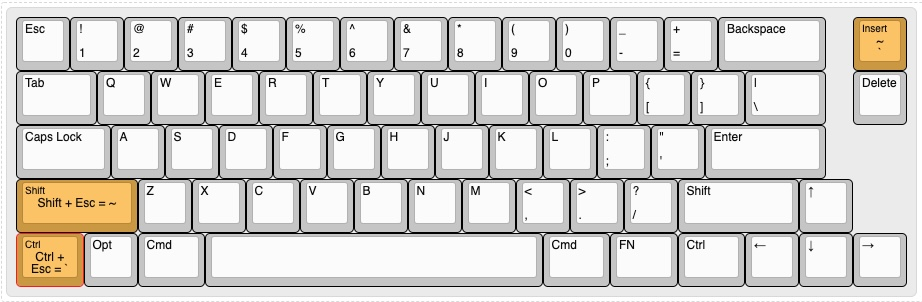
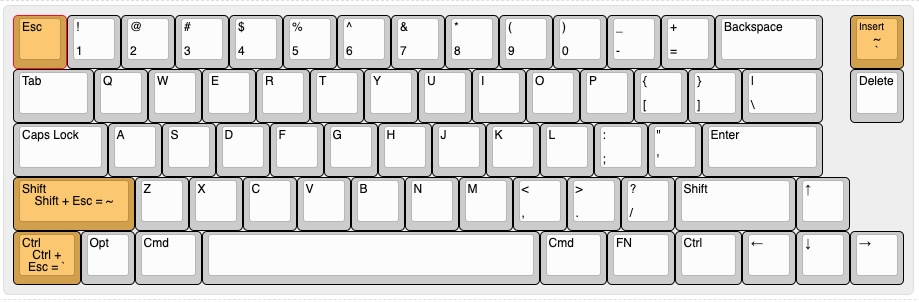
Update 60% rule image

Changed region(s): [[0.0, 0.0, 1.0, 1.0]]

diff --git a/readme.md b/readme.md
@@ -108,7 +108,7 @@ Defines rules when inside a remote desktop session
   - These are for when running a remote desktop session in a Windows environment
   - I did not include a rule to swap Command key and Control key, due to I already have a "base" rule that swap Command key and Option key
   - I want my basic Mac text editing keyboard shortcuts to work in Windows
-    - Cmd + C, Cmd + V, Cmd + X, Cmd + A are all working by default in Windows Remote Desktop client, so I didn't include them
+    - `Cmd + C`, `Cmd + V`, `Cmd + X`, `Cmd + A` are all working by default in Windows Remote Desktop client, so I didn't include them
     - The rules adds Cmd + N, Cmd + S, Cmd + W
 - `Cmd` + `N` -> `Ctrl` + `N`
   - Command + N to create a new file/tab
